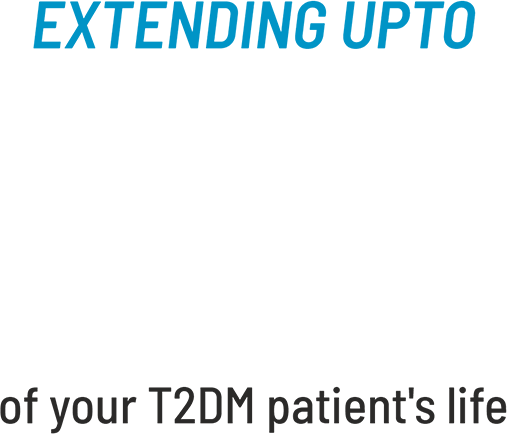
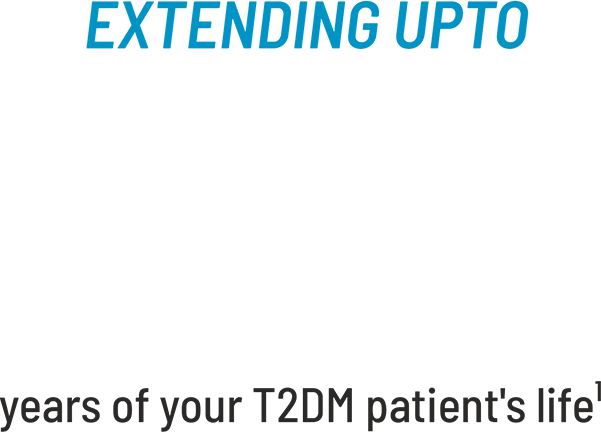
Update

Changed region(s): [[0.0, 0.8727, 1.0, 1.0], [0.0592, 0.0, 0.9467, 0.1204]]

diff --git a/slide4/slide4.css b/slide4/slide4.css
@@ -48,10 +48,10 @@
 
 .s5 {
 	position: absolute;
-  left: 94px;
-  top: 407px;
-  width: 986px;
-  height: 403px;
+  left: 74px;
+  top: 405px;
+  width: 1006px;
+  height: 405px;
 	animation: none 0.5s;
 	animation-delay: 1s;
 	animation-fill-mode: both;

diff --git a/slide3/slide3.css b/slide3/slide3.css
@@ -24,10 +24,10 @@
 
 .s3 {
 	position: absolute;
-  left: 175px;
+  left: 122px;
   top: 277px;
-  width: 507px;
-  height: 434px;
+  width: 601px;
+  height: 432px;
 	animation: zoomIn 0.5s;
 	animation-delay: 0.5s;
 	animation-fill-mode: both;
